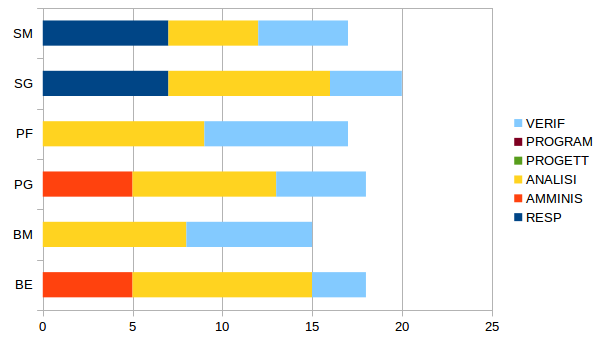
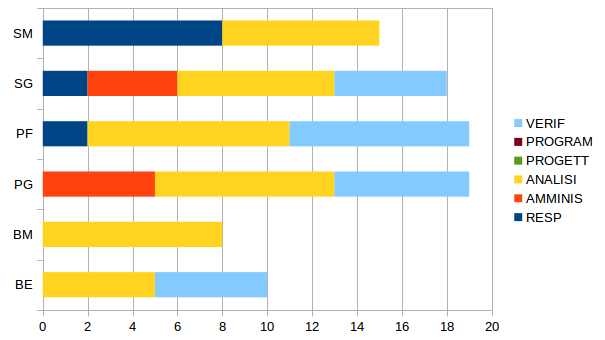
Correzione Preventivo

diff --git a/Documentazione/RevisioneRequisiti/Esterni/PianoDiProgetto/Sezioni/Preventivo.tex b/Documentazione/RevisioneRequisiti/Esterni/PianoDiProgetto/Sezioni/Preventivo.tex
@@ -8,13 +8,13 @@
 				\begin{tabular}{cccccccc}
 				\noalign{\hrule height 1.5pt}
 				\textbf{Nome} & \textbf{Res} & \textbf{Amm} & \textbf{An} & \textbf{Pt} & \textbf{Pr} & \textbf{Ve} & \textbf{Totale} \\ \hline
-				Bonato Enrico & - & 5 & 10 & - & - & 3 & 18 \\ \hline
-				Bonolo Marco  & - & - & 8 & - & - & 7 & 15 \\ \hline
-				Pace Giulio  & - & 5 & 8 & - & - & 5 & 18 \\ \hline
-				Pezzuto Francesco  & - & - & 9 & - & - & 8 & 17 \\ \hline
-				Sanna Giovanni  & 7 & - & 9 & - & - & 4 & 20 \\ \hline
-				Sovilla Matteo  & 7 & - & 5 & - & - & 5 & 17  \\ \hline
-				\textbf{Ore Totali Ruolo} & \textbf{14} & \textbf{10} & \textbf{49} & \textbf{0} & \textbf{0} & \textbf{32} & \textbf{105} \\ \hline
+				Bonato Enrico & - & - & 5 & - & - & 5 & 10 \\ \hline
+				Bonolo Marco  & - & - & 8 & - & - & - & 8 \\ \hline
+				Pace Giulio  & - & 5 & 8 & - & - & 6 & 19 \\ \hline
+				Pezzuto Francesco  & 2 & - & 9 & - & - & 8 & 19 \\ \hline
+				Sanna Giovanni  & 2 & 4 & 7 & - & - & 5 & 18 \\ \hline
+				Sovilla Matteo  & 8 & - & 7 & - & - & - & 15  \\ \hline
+				\textbf{Ore Totali Ruolo} & \textbf{12} & \textbf{9} & \textbf{44} & \textbf{0} & \textbf{0} & \textbf{24} & \textbf{89} \\ \hline
 				\noalign{\hrule height 1.5pt}
 				\end{tabular}
 			\caption{Prospetto orario Analisi.  \label{tab:table_label}}
@@ -37,19 +37,19 @@
 					\noalign{\hrule height 1.5pt}
 					\textbf{Ruolo} & \textbf{Ore} & \textbf{Costo(\euro)}     \\
 					\hline
-					Responsabile  & 14 & 420\\ 
+					Responsabile  & 12 & 360\\ 
 					\hline
-					Amministratore  & 10  & 200\\
+					Amministratore  & 9  & 180\\
 					\hline
-					Analista  & 49 & 1225\\
+					Analista  & 44 & 1100\\
 					\hline
 					Progettista  & 0 & 0\\
 					\hline
 					Programmatore  & 0 & 0\\
 					\hline
-					Verificatore  & 32 & 480\\
+					Verificatore  & 24 & 360\\
 					\hline
-					\textbf{Totale}  & \textbf{105} & \textbf{2325}\\
+					\textbf{Totale}  & \textbf{89} & \textbf{2000}\\
 					\noalign{\hrule height 1.5pt}
 			\end{tabular}
 			\caption{Prospetto economico Analisi.  \label{tab:table_label}}
@@ -62,13 +62,13 @@
 				\begin{tabular}{cccccccc}
 				\noalign{\hrule height 1.5pt}
 				\textbf{Nome} & \textbf{Res} & \textbf{Amm} & \textbf{An} & \textbf{Pt} & \textbf{Pr} & \textbf{Ve} & \textbf{Totale} \\ \hline
-				Bonato Enrico & 5 & - & - & - & - & - & 5 \\ \hline
-				Bonolo Marco  & - & - & - & - & - & 6 & 6 \\ \hline
-				Pace Giulio  & - & - & - & - & - & 6 & 6 \\ \hline
-				Pezzuto Francesco  & - & - & 6 & - & - & - & 6 \\ \hline
+				Bonato Enrico & - & - & 5 & - & - & - & 5 \\ \hline
+				Bonolo Marco  & - & - & 6 & - & - & - & 6 \\ \hline
+				Pace Giulio  & - & - & - & - & - & 5 & 5 \\ \hline
+				Pezzuto Francesco  & - & - & 3 & - & - & - & 3 \\ \hline
 				Sanna Giovanni  & - & - & 5 & - & - & - & 5 \\ \hline
-				Sovilla Matteo  & - & 5 & - & - & - & - & 5 \\ \hline
-				\textbf{Ore Totali Ruolo} & \textbf{5} & \textbf{5} & \textbf{11} & \textbf{0} & \textbf{0} & \textbf{12} & \textbf{33} \\ \hline
+				Sovilla Matteo  & 5 & 5 & - & - & - & - & 10 \\ \hline
+				\textbf{Ore Totali Ruolo} & \textbf{5} & \textbf{5} & \textbf{19} & \textbf{0} & \textbf{0} & \textbf{5} & \textbf{34} \\ \hline
 				\noalign{\hrule height 1.5pt}
 				\end{tabular}
 			\caption{Prospetto orario Analisi di dettaglio.  \label{tab:table_label}}
@@ -95,15 +95,15 @@
 					\hline
 					Amministratore  & 5  & 100 \\
 					\hline
-					Analista  & 11  & 275\\
+					Analista  & 19  & 475\\
 					\hline
 					Progettista  & 0 & 0\\
 					\hline
 					Programmatore  & 0 & 0\\
 					\hline
-					Verificatore  & 12 & 180\\
+					Verificatore  & 5 & 75\\
 					\hline
-					\textbf{Totale}  & \textbf{33} & \textbf{705}\\
+					\textbf{Totale}  & \textbf{34} & \textbf{800}\\
 					\noalign{\hrule height 1.5pt}
 			\end{tabular}
 			\caption{Prospetto economico Analisi di dettaglio.  \label{tab:table_label}}
@@ -117,13 +117,13 @@
 				\begin{tabular}{cccccccc}
 				\noalign{\hrule height 1.5pt}
 				\textbf{Nome} & \textbf{Res} & \textbf{Amm} & \textbf{An} & \textbf{Pt} & \textbf{Pr} & \textbf{Ve} & \textbf{Totale} \\ \hline
-				Bonato Enrico & - & - & 12 & - & - & 12 & 24 \\ \hline
+				Bonato Enrico & 5 & - & 12 & - & - & 12 & 29 \\ \hline
 				Bonolo Marco  & - & 5 & - & 14 & - & - & 19 \\ \hline
-				Pace Giulio  & 11 & - & - & 10 & - & - & 21 \\ \hline
-				Pezzuto Francesco  & - & - & 9 & 10 & - & - & 19 \\ \hline
-				Sanna Giovanni  & - & - & - & 16 & - & - & 16 \\ \hline
+				Pace Giulio  & 6 & - & - & 10 & - & - & 16 \\ \hline
+				Pezzuto Francesco  & - & - & 9 & 14 & - & - & 23 \\ \hline
+				Sanna Giovanni  & - & - & - & 14 & - & - & 14 \\ \hline
 				Sovilla Matteo  & - & - & 10 & - & - & 15 & 25 \\ \hline
-				\textbf{Ore Totali Ruolo} & \textbf{11} & \textbf{5} & \textbf{31} & \textbf{50} &  \textbf{0}& \textbf{27} & \textbf{124} \\ \hline
+				\textbf{Ore Totali Ruolo} & \textbf{11} & \textbf{5} & \textbf{31} & \textbf{52} &  \textbf{0}& \textbf{27} & \textbf{126} \\ \hline
 				\noalign{\hrule height 1.5pt}
 				\end{tabular}
 			\caption{Prospetto orario Progettazione architetturale.  \label{tab:table_label}}
@@ -152,13 +152,13 @@
 					\hline
 					Analista  & 31 & 775 \\
 					\hline
-					Progettista  & 50 & 1100 \\
+					Progettista  & 52 & 1144 \\
 					\hline
 					Programmatore  & 0 & 0 \\
 					\hline 
 					Verificatore  & 27 & 405 \\
 					\hline
-					\textbf{Totale}  & \textbf{124} & \textbf{2710}\\
+					\textbf{Totale}  & \textbf{126} & \textbf{2754}\\
 					\noalign{\hrule height 1.5pt}
 			\end{tabular}
 			\caption{Prospetto economico Progettazione architetturale.  \label{tab:table_label}}
@@ -172,13 +172,13 @@
 				\begin{tabular}{cccccccc}
 				\noalign{\hrule height 1.5pt}
 				\textbf{Nome} & \textbf{Res} & \textbf{Amm} & \textbf{An} & \textbf{Pt} & \textbf{Pr} & \textbf{Ve} & \textbf{Totale} \\ \hline
-				Bonato Enrico & - & 5 & - & 22 & 11 & - & 38 \\ \hline
-				Bonolo Marco  & 8 & - & - & - & 13 & 25 & 46 \\ \hline
-				Pace Giulio  & - & - & - & 17 & 10 & 17 & 44 \\ \hline
-				Pezzuto Francesco  & - & 5 & - & 16 & 12 & 14 & 47 \\ \hline
-				Sanna Giovanni  & - & - & - & 18 & 12 & 21 & 51 \\ \hline
-				Sovilla Matteo  & - & - & 6 & 22 & 17 & - & 45 \\ \hline
-				\textbf{Ore Totali Ruolo} & \textbf{8} & \textbf{10} & \textbf{6} & \textbf{95} & \textbf{75} & \textbf{77} & \textbf{271} \\ \hline
+				Bonato Enrico & - & 5 & - & 21 & 15 & - & 41 \\ \hline
+				Bonolo Marco  & 8 & - & - & - & 13 & 24 & 45 \\ \hline
+				Pace Giulio  & - & - & - & 17 & 15 & 15 & 47 \\ \hline
+				Pezzuto Francesco  & - & 5 & - & 16 & 12 & 16 & 49 \\ \hline
+				Sanna Giovanni  & - & - & - & 16 & 12 & 21 & 49 \\ \hline
+				Sovilla Matteo  & - & - & 6 & 22 & 14 & - & 42 \\ \hline
+				\textbf{Ore Totali Ruolo} & \textbf{8} & \textbf{10} & \textbf{6} & \textbf{92} & \textbf{81} & \textbf{76} & \textbf{273} \\ \hline
 				\noalign{\hrule height 1.5pt}
 				\end{tabular}
 			\caption{Prospetto orario Progettazione di dettaglio e Codifica.  \label{tab:table_label}}
@@ -207,13 +207,13 @@
 					\hline
 					Analista  & 6  & 150 \\
 					\hline
-					Progettista  & 95 & 2090 \\
+					Progettista  & 92 & 2024 \\
 					\hline
-					Programmatore  & 75 & 1125 \\
+					Programmatore  & 81 & 1215 \\
 					\hline
-					Verificatore  & 77 & 1155 \\
+					Verificatore  & 76 & 1140 \\
 					\hline
-					\textbf{Totale}  & \textbf{271} & \textbf{4960}\\
+					\textbf{Totale}  & \textbf{273} & \textbf{4969}\\
 					\noalign{\hrule height 1.5pt}
 			\end{tabular}
 			\caption{Prospetto economico Progettazione di dettaglio e Codifica.  \label{tab:table_label}}
@@ -227,12 +227,12 @@
 				\noalign{\hrule height 1.5pt}
 				\textbf{Nome} & \textbf{Res} & \textbf{Amm} & \textbf{An} & \textbf{Pt} & \textbf{Pr} & \textbf{Ve} & \textbf{Totale} \\ \hline
 				Bonato Enrico & - & - & - & 6 & 0 & 14 & 20 \\ \hline
-				Bonolo Marco  & - & - & - & 9 & 10 & - & 19 \\ \hline
-				Pace Giulio  & - & - & - & - & 7 & 9 & 16 \\ \hline
-				Pezzuto Francesco  & 9 & - & - & - & - & 7 & 16 \\ \hline
-				Sanna Giovanni  & - & 6 & - & - & 7 & 0 & 13 \\ \hline
+				Bonolo Marco  & - & - & - & 9 & 10 & 8 & 27 \\ \hline
+				Pace Giulio  & - & - & - & - & 7 & 11 & 18 \\ \hline
+				Pezzuto Francesco  & 4 & - & - & - & - & 7 & 11 \\ \hline
+				Sanna Giovanni  & 4 & 5 & - & - & 5 & 5 & 19 \\ \hline
 				Sovilla Matteo  & - & - & - & - & - & 13 & 13 \\ \hline
-				\textbf{Ore Totali Ruolo} & \textbf{9} & \textbf{6} & \textbf{0} & \textbf{15} & \textbf{24} & \textbf{43} & \textbf{97} \\ \hline
+				\textbf{Ore Totali Ruolo} & \textbf{8} & \textbf{5} & \textbf{0} & \textbf{15} & \textbf{22} & \textbf{58} & \textbf{108} \\ \hline
 				\noalign{\hrule height 1.5pt}
 				\end{tabular}
 			\caption{Prospetto orario Validazione.  \label{tab:table_label}}
@@ -255,19 +255,19 @@
 					\noalign{\hrule height 1.5pt}
 					\textbf{Ruolo} & \textbf{Ore} & \textbf{Costo(\euro)}     \\
 					\hline
-					Responsabile  & 9 & 270 \\
+					Responsabile  & 8 & 270 \\
 					\hline
-					Amministratore  & 6  & 120 \\
+					Amministratore  & 5  & 120 \\
 					\hline
 					Analista  & 0  & 0 \\
 					\hline
 					Progettista  & 15 & 330 \\
 					\hline
-					Programmatore  & 24  & 360\\ 
+					Programmatore  & 22  & 360\\ 
 					\hline
-					Verificatore  & 43 & 645 \\
+					Verificatore  & 58 & 645 \\
 					\hline
-					\textbf{Totale}  & \textbf{97} & \textbf{1725}\\
+					\textbf{Totale}  & \textbf{108} & \textbf{1870}\\
 					\noalign{\hrule height 1.5pt}
 			\end{tabular}
 			\caption{Prospetto economico Validazione.  \label{tab:table_label}}
@@ -280,13 +280,13 @@
 				\begin{tabular}{cccccccc}
 				\noalign{\hrule height 1.5pt}
 				\textbf{Nome} & \textbf{Res} & \textbf{Amm} & \textbf{An} & \textbf{Pt} & \textbf{Pr} & \textbf{Ve} & \textbf{Totale} \\ \hline
-				Bonato Enrico & 5 & 10 & 22 & 28 & 11 & 29 & 105 \\ \hline
-				Bonolo Marco  & 8 & 5 & 8 & 23 & 23 & 38 & 105 \\ \hline
-				Pace Giulio  & 11 & 5 & 8 & 27 & 17 & 37 & 105  \\ \hline
-				Pezzuto Francesco  & 9 & 5 & 24 & 26 & 12 & 29 & 105 \\ \hline
-				Sanna Giovanni  & 7 & 6 & 14 & 34 & 19 & 25 & 105 \\ \hline
-				Sovilla Matteo  & 7 & 5 & 21 & 22 & 17 & 33 & 105 \\ \hline
-				\textbf{Ore Totali Ruolo} & \textbf{47} & \textbf{36} & \textbf{97} & \textbf{160} & \textbf{99} & \textbf{191} & \textbf{630} \\ \hline
+				Bonato Enrico & 5 & 5 & 22 & 27 & 15 & 31 & 105 \\ \hline
+				Bonolo Marco  & 8 & 5 & 14 & 23 & 23 & 32 & 105 \\ \hline
+				Pace Giulio  & 6 & 5 & 8 & 27 & 22 & 37 & 105  \\ \hline
+				Pezzuto Francesco  & 6 & 5 & 8 & 27 & 22 & 14 & 105 \\ \hline
+				Sanna Giovanni  & 6 & 9 & 12 & 30 & 17 & 31 & 105 \\ \hline
+				Sovilla Matteo  & 13 & 5 & 23 & 22 & 14 & 28 & 105 \\ \hline
+				\textbf{Ore Totali Ruolo} & \textbf{44} & \textbf{34} & \textbf{100} & \textbf{159} & \textbf{103} & \textbf{190} & \textbf{630} \\ \hline
 				\noalign{\hrule height 1.5pt}
 				\end{tabular}
 			\caption{Riepilogo prospetto orario.  \label{tab:table_label}}
@@ -309,19 +309,19 @@
 					\noalign{\hrule height 1.5pt}
 					\textbf{Ruolo} & \textbf{Ore} & \textbf{Costo(\euro)}     \\
 					\hline
-					Responsabile  & 47 & 1410 \\ 
+					Responsabile  & 44 & 1320 \\ 
 					\hline
-					Amministratore  & 36  & 720 \\
+					Amministratore  & 34  & 680 \\
 					\hline
-					Analista  & 97  & 2425 \\ 
+					Analista  & 100  & 2500 \\ 
 					\hline
-					Progettista  & 160 & 3520\\
+					Progettista  & 159 & 3498\\
 					\hline
-					Programmatore  & 99  & 1485\\
+					Programmatore  & 103  & 1545\\
 					\hline
-					Verificatore  & 191 & 2865\\
+					Verificatore  & 190 & 2850\\
 					\hline
-					\textbf{Totale}  & \textbf{628} & \textbf{12425}\\
+					\textbf{Totale}  & \textbf{360} & \textbf{12393}\\
 					\noalign{\hrule height 1.5pt}
 			\end{tabular}
 			\caption{Riepilogo prospetto economico.  \label{tab:table_label}}
